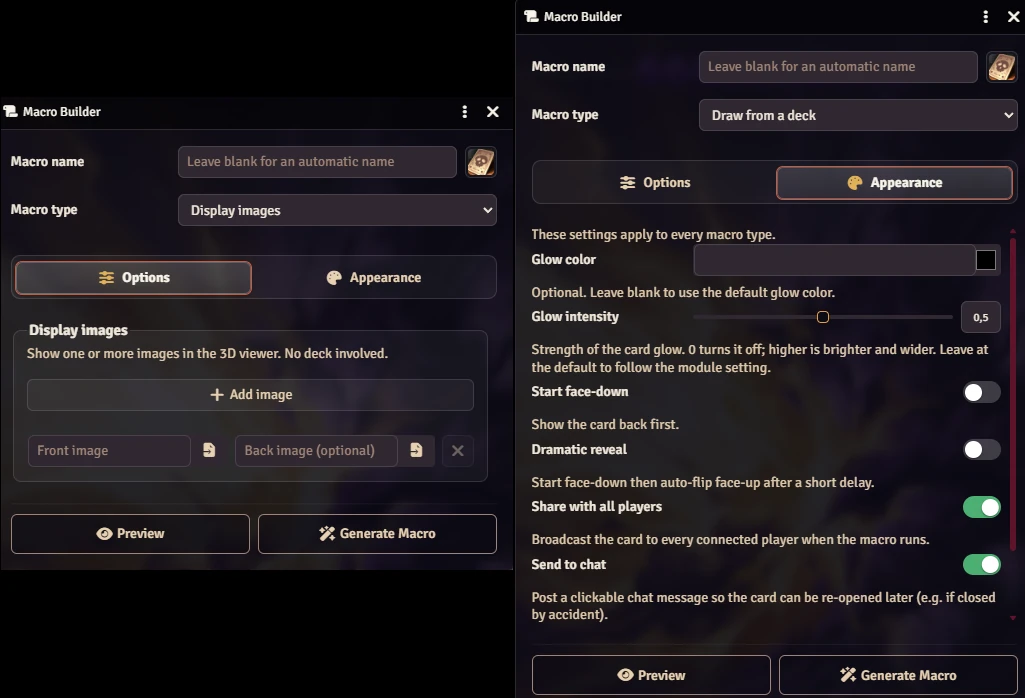
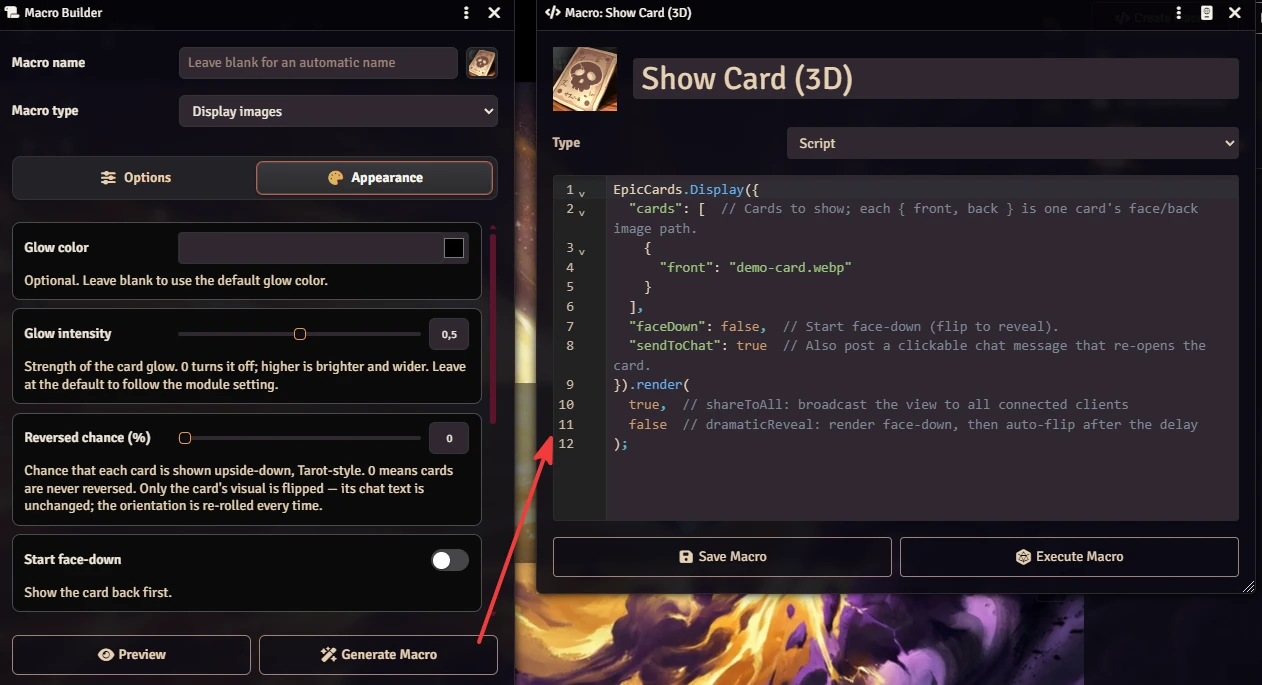
0.0.6

diff --git a/styles/base.css b/styles/base.css
@@ -17,17 +17,25 @@
  * only the module's own windows — never core sheets, and never the chat previews
  * above (those use the distinct `epic-3d-card-reveal-msg` token, which `[class~=]`
  * treats as a separate word). Design tokens live here once; the per-app stylesheets
- * (macro-builder.css, card-appearance-settings.css) consume them for a consistent look.
+ * (macro-builder.css, card-appearance-settings.css, reveal-sound-settings.css) consume them
+ * for a consistent look.
+ *
+ * The surface/border/fill tokens are fully opaque (solid shades, not translucent white-over-dark
+ * rgba), so none of the module's forms let the window content show through their panels, cards or
+ * fields, and the three config windows (Macro Builder, Card Appearance, Reveal Sound) read alike.
+ * card-viewer.css / chat-card.css don't consume these tokens, so they're unaffected.
  */
 [class~="epic-3d-card-reveal"].application {
-    --epic-3d-card-reveal-surface: rgba(255, 255, 255, 0.045);
-    --epic-3d-card-reveal-surface-raised: rgba(255, 255, 255, 0.09);
-    --epic-3d-card-reveal-border: rgba(255, 255, 255, 0.12);
-    --epic-3d-card-reveal-border-strong: rgba(255, 255, 255, 0.22);
+    --epic-3d-card-reveal-surface: #222226;
+    --epic-3d-card-reveal-surface-raised: #2d2d30;
+    --epic-3d-card-reveal-border: #343437;
+    --epic-3d-card-reveal-border-strong: #4b4b4e;
     --epic-3d-card-reveal-accent: #e0b25a;
-    --epic-3d-card-reveal-accent-soft: rgba(224, 178, 90, 0.28);
-    --epic-3d-card-reveal-toggle-off: rgba(255, 255, 255, 0.2);
+    --epic-3d-card-reveal-accent-soft: #50432d;
+    --epic-3d-card-reveal-toggle-off: #464649;
     --epic-3d-card-reveal-toggle-on: #4caf72;
+    /* Near-black fill for the boxed setting cards, deliberately darker than the window frame. */
+    --epic-3d-card-reveal-field-bg: #0a0a0b;
 
     /* Legibility is the priority: lift labels, legends and hints off the dark frame. */
     label {
@@ -141,4 +149,49 @@
     .form-footer button:active {
         transform: translateY(1px);
     }
+}
+
+/*
+ * Boxed setting cards — the shared visual language across all three config windows. Each setting
+ * (its label + fields + explanatory hint) is wrapped in its own near-black card with a strong
+ * border, so every control reads as one unit instead of the list blurring into a single wall of
+ * text, and so the windows look identical.
+ *
+ * This must be a top-level rule (not nested in the `.application` block above) because it keys off
+ * each window's own root class to box exactly the right groups:
+ *   - Macro Builder: only the Appearance panel's groups — the header (name/type) and the Options
+ *     panel keep their tighter layout, so we target `[data-tab-panel="appearance"]`.
+ *   - Card Appearance / Reveal Sound: every group in the form, all under `.standard-form`.
+ * A single descendant `.form-group` selector also catches the groups nested inside the Macro
+ * Builder's collapsible data-sound-custom / data-reveal-extra / data-deck-only wrappers.
+ */
+[class~="epic-3d-card-reveal"].card-macro-builder [data-tab-panel="appearance"] .form-group,
+[class~="epic-3d-card-reveal"].card-appearance-settings .standard-form .form-group,
+[class~="epic-3d-card-reveal"].reveal-sound-settings .standard-form .form-group {
+    margin: 0 0 0.55rem;
+    padding: 0.55rem 0.7rem 0.6rem;
+    background: var(--epic-3d-card-reveal-field-bg);
+    border: 1px solid var(--epic-3d-card-reveal-border-strong);
+    border-radius: 8px;
+}
+
+/* The hint now lives inside its setting's box: drop its trailing gap and lift it to full contrast
+   so the explanatory text reads clearly against the dark fill. */
+[class~="epic-3d-card-reveal"].card-macro-builder [data-tab-panel="appearance"] .form-group .hint,
+[class~="epic-3d-card-reveal"].card-appearance-settings .standard-form .form-group .hint,
+[class~="epic-3d-card-reveal"].reveal-sound-settings .standard-form .form-group .hint {
+    margin-block-end: 0;
+    opacity: 1;
+}
+
+/*
+ * Match the Macro Builder's tighter card spacing. There the boxed groups sit inside the scrolling
+ * `.cmb-panel`, so the only gap between them is the card's own 0.55rem margin. In these two forms
+ * the groups are direct children of `.standard-form`, which adds core's flex `gap` on top — making
+ * the spacing read as too large. Drop that gap so the card margin alone drives the rhythm. (Their
+ * footer lives outside `.standard-form`, so this only affects the spacing between cards.)
+ */
+[class~="epic-3d-card-reveal"].card-appearance-settings .standard-form,
+[class~="epic-3d-card-reveal"].reveal-sound-settings .standard-form {
+    gap: 0;
 }

diff --git a/styles/macro-builder.css b/styles/macro-builder.css
@@ -6,23 +6,6 @@
  * instead of an escaped class selector — same specificity, no escapes.
  */
 [class~="epic-3d-card-reveal"].card-macro-builder {
-    /*
-     * Fully opaque Macro Builder: base.css defines the shared surface/border/fill tokens as
-     * translucent white-over-dark rgba() values, which let the window content show through every
-     * panel, card and field. Here we redeclare each one as the same shade flattened to a solid
-     * color (its appearance over the dark window frame), so nothing in this window is see-through.
-     * This selector matches the same root element as base.css's [class~=...].application rule with
-     * equal specificity, and macro-builder.css loads later, so these win — and only for the Macro
-     * Builder. The Card Appearance app keeps the translucent tokens. accent/toggle-on are already
-     * opaque, so they're left to inherit from base.css.
-     */
-    --epic-3d-card-reveal-surface: #222226;
-    --epic-3d-card-reveal-surface-raised: #2d2d30;
-    --epic-3d-card-reveal-border: #343437;
-    --epic-3d-card-reveal-border-strong: #4b4b4e;
-    --epic-3d-card-reveal-accent-soft: #50432d;
-    --epic-3d-card-reveal-toggle-off: #464649;
-
     /* Square thumbnail button beside the macro name; clicking it opens the icon FilePicker. */
     .cmb-icon-pick {
         flex: 0 0 auto;
@@ -125,32 +108,15 @@
     }
 
     /*
-     * Appearance panel: box each setting into its own card so the explanatory hint underneath
-     * stays visually tied to its control, instead of the whole list reading as one undivided
-     * wall of text where it's unclear which note belongs to which option. A raised fill plus a
-     * strong border maximise the separation; scoped to the appearance panel so the Options panel
-     * keeps its tighter fieldset layout. The toggle/select/slider settings here are each their own
-     * .form-group (the formGroup helper and the hand-built blocks both bundle label + fields + hint
-     * into one), so a single descendant rule covers them all — including those nested inside the
-     * collapsible data-sound-custom / data-reveal-extra / data-deck-only wrappers.
+     * The boxed setting cards for the Appearance panel are defined once in base.css, shared with
+     * the Card Appearance and Reveal Sound forms for a consistent look.
      */
-    [data-tab-panel="appearance"] .form-group {
-        margin: 0 0 0.55rem;
-        padding: 0.55rem 0.7rem 0.6rem;
-        background: var(--epic-3d-card-reveal-surface-raised);
-        border: 1px solid var(--epic-3d-card-reveal-border-strong);
-        border-radius: 8px;
-    }
 
-    /* The hint now lives inside its setting's box; drop the trailing gap and lift it to full
-       contrast so the explanatory text reads clearly against the raised fill. */
-    [data-tab-panel="appearance"] .form-group .hint {
-        margin-block-end: 0;
-        opacity: 1;
-    }
-
+    /* Give the Options panel's three macro-type fieldsets the same near-black fill as the
+       Appearance cards, so both tabs share one look. */
     fieldset {
         margin-block-start: 0;
+        background: var(--epic-3d-card-reveal-field-bg);
     }
 
     /* Make the hand-built selects line up with the formGroup inputs. */

diff --git a/docs/README-ptbr.md b/docs/README-ptbr.md
@@ -1,0 +1,117 @@
+# 🃏 Epic 3D Card Reveal
+
+**Um módulo para Foundry VTT que transforma cada carta sacada em um momento especial**
+
+> 🌐 [Read this in English](../README.md)
+
+Sacar uma carta do Baralho das Muitas Coisas deveria ser um *evento que para a mesa* — e não uma miniatura minúscula na barra lateral. O **Epic 3D Card Reveal** transforma cada carta em um espetáculo deslumbrante em tela cheia: a carta flutua diante de uma tela escurecida, inclina-se em 3D conforme você move o mouse, reflete a luz com um brilho sutil e vira com uma animação satisfatória — acompanhada de um toque triunfante — quando você clica nela.
+
+![Prévia](preview.webp)
+
+![Prévia 3 Cartas](preview-3cards.webp)
+
+[![Buy Me a Coffee](https://img.shields.io/badge/Buy%20Me%20a%20Coffee-Donate-red?style=for-the-badge&logo=buy-me-a-coffee)](https://buymeacoffee.com/mestredigital)
+
+## ✨ O que ele faz
+
+- 🖥 **Visualizador 3D em tela cheia** — as cartas pairam sobre um fundo escurecido com brilhos, uma aura reluzente e um reflexo de luz que segue o seu cursor.
+- 🔄 **Clique para virar** — veja a arte da carta de um lado e o texto da carta do outro.
+- 🔊 **Toque triunfante de revelação** — um som de vitória soa no momento em que a face de uma carta é revelada, fazendo cada saque parecer conquistado. (Totalmente configurável — escolha o seu próprio som ou silencie-o.)
+- 🖐 **Mãos em leque** — saque várias cartas de uma vez e elas se espalham em um gracioso arco 3D, como se você segurasse uma mão de verdade.
+- 🔍 **Destaque uma carta** — clique com o botão direito em qualquer carta de uma mão para ampliá-la sozinha; clique novamente com o botão direito para trazer a mão inteira de volta.
+- 👁 **Compartilhe com um clique** — gostou do que sacou? Aperte o botão de olho e *todos na mesa* veem a sua carta instantaneamente. Os jogadores também podem compartilhar, não apenas o GM.
+- 🎭 **Revelação dramática** — as cartas podem aparecer viradas para baixo e se virar sozinhas após uma pausa de suspense.
+- 🔮 **Cartas invertidas (estilo Tarô)** — dê a uma macro uma chance de inversão e cada carta terá essa porcentagem de chance de cair de cabeça para baixo, como em uma tiragem de Tarô de verdade. O texto da carta nunca muda — o significado é lido pela orientação. Desativado por padrão; ative-o por macro (ou com o controle deslizante *Chance de inversão* do Construtor de Macros).
+- 💬 **Nunca perca uma carta** — toda carta que você visualiza é discretamente sussurrada ao GM no chat. As cartas compartilhadas são publicadas publicamente, então qualquer um pode clicar na miniatura do chat para admirá-las novamente depois.
+- 🖱 **Clique em qualquer miniatura de carta** — na barra lateral, na janela de um baralho ou no chat — e ela abre no visualizador.
+
+## 🚀 Como usar
+
+1. 📦 Instale o módulo e ative-o no seu mundo.
+2. 🗂 Abra qualquer baralho de cartas e **clique na imagem de uma carta** — ela abre no visualizador 3D.
+3. 🃏 **Clique na carta** para virá-la. **Clique em qualquer outro lugar** para dispensá-la.
+4. 🔍 Sacou mais de uma carta? **Clique com o botão direito** em uma carta para destacá-la sozinha e clique novamente com o botão direito para espalhar a mão de volta em leque.
+5. 👁 Clique no **botão de olho** no canto superior para mostrar a carta a todos. (O botão só aparece quando a carta ainda não está sendo mostrada a todos.)
+
+É isso. Não precisa de configuração — fica ótimo já de cara.
+
+## ⚙ Configurações
+
+![Configurações](settings.webp)
+
+| Configuração | Padrão | O que faz |
+|---|---|---|
+| 🖱 Ativar ícones de carta clicáveis | Ligado | Faz com que as miniaturas de cartas na barra lateral, nas janelas de baralho e no chat abram o visualizador 3D. |
+| 💬 Enviar cartas reveladas ao chat | Ligado | Publica uma prévia clicável da carta no chat — sussurrada ao GM quando uma carta é vista em particular, pública quando é compartilhada. |
+| 📜 Enviar descrição da carta ao chat | Desligado | Adiciona a descrição da carta à prévia no chat — perfeito para baralhos de lore como o Harrow Deck do PF2e. Lê o próprio campo de descrição da carta e renderiza seu texto rico e links. Cartas sem descrição (e imagens simples exibidas pela API) não são afetadas. |
+
+Os três menus abaixo são exclusivos do GM e permitem definir os padrões para todo o seu mundo:
+
+### 🎨 Menu de Aparência da Carta
+
+Clique em **Configurar Aparência da Carta** nas configurações do módulo para abrir uma janela dedicada onde você pode estilizar suas cartas:
+
+- 🌟 **Cor e opacidade do brilho da carta** — o brilho é a moldura da carta: escolha sua cor com um seletor de cores e ajuste sua transparência com um controle deslizante (deslize até `0` para desligar o brilho e deixar a carta sem bordas).
+- 🂠 **Imagem do verso da carta** — o verso padrão mostrado quando uma carta não tem um próprio.
+- ⏱ **Atraso da revelação dramática** — por quanto tempo uma carta permanece virada para baixo antes de virar automaticamente durante uma revelação dramática.
+
+### 🔊 Menu de Som de Revelação
+
+Clique em **Configurar Som de Revelação** para escolher o som que toca quando uma carta é revelada:
+
+- 🎵 **Som de revelação** — escolha qualquer arquivo de áudio ou deixe em branco para não tocar som algum.
+- 🔉 **Volume** e **canal de áudio** — defina o volume e qual canal do mixer ele usa.
+- ♻ Um botão **Restaurar Padrões** restaura o toque original a qualquer momento.
+
+### 📜 Construtor de Macros
+
+![Construtor de Macros](macro-builder.webp)
+
+Não é programador? Clique em **Abrir Construtor de Macros** para preencher um formulário simples e obter uma macro pronta para uso que exibe qualquer imagem — ou saca de um dos seus baralhos — como uma carta 3D completa. Sem necessidade de programação.
+
+## 💬 Como o chat funciona
+
+- 👁🗨 **Visualizar uma carta em particular** → uma prévia é sussurrada ao GM, então o GM sempre sabe o que foi sacado e pode reabri-la a qualquer momento.
+- 📢 **Compartilhar uma carta com todos** → a prévia é publicada publicamente no chat, então qualquer jogador pode clicar nela depois para visualizar a carta novamente na própria tela.
+- 🙈 **Virada para baixo continua secreta** → uma carta mostrada virada para baixo não é publicada no chat até que você a vire para cima (ou ela vire automaticamente durante uma revelação dramática), então a frente nunca aparece no chat antes da revelação.
+- 📜 **Lore da carta no chat (opcional)** → ative **Enviar descrição da carta ao chat** e a prévia também carrega a descrição da carta — seu texto rico e links renderizados no lugar. Ótimo para baralhos como o Harrow do PF2e, onde cada carta conta uma história.
+
+## 🧙 Para autores de macros e módulos
+
+Quer mostrar qualquer imagem como uma linda carta 3D a partir de uma macro, ou construir sobre o visualizador? O visualizador é programável através do objeto global `EpicCards`.
+
+- 🖼 **`EpicCards.Display(...)`** — o recurso principal: renderiza *qualquer* imagem com a apresentação 3D animada.
+- 🃏 **`EpicCards.Dealer(...)`** — um auxiliar opcional para quando você está trabalhando com baralhos de cartas reais. Ele conecta a lógica de cartas do Foundry (sacar para uma pilha de descarte, encontrar uma carta entre as pilhas) ao visualizador, então sua macro ou módulo pode mover cartas **e** mostrar a carta animada em um único passo — sem precisar reimplementar a estrutura de baralhos/pilhas você mesmo.
+
+Prefere não escrever código? Abra o **Construtor de Macros** (configurações do módulo → **Abrir Construtor de Macros**, ou chame `EpicCards.MacroBuilder()`) para gerar uma macro pronta a partir de um formulário.
+
+Veja **[docs/API.md](API.md)** para a referência completa e exemplos de macros prontos para colar.
+
+---
+
+# Instalação
+
+1. Abra o Foundry VTT e vá até **Add-on Modules**.
+2. Clique em **Install Module**.
+3. Cole a URL do manifesto abaixo e clique em **Install**.
+
+```
+https://raw.githubusercontent.com/brunocalado/epic-3d-card-reveal/main/module.json
+```
+
+4. Ative o módulo no seu mundo através de **Manage Modules**.
+
+---
+
+# Relatos de Bugs & Pedidos de Recursos
+
+https://github.com/brunocalado/epic-3d-card-reveal/issues
+
+---
+
+# Créditos e Licença
+
+- Lançado sob a [LICENSE](../LICENSE).
+- Este módulo é um fork/reescrita do [orcnog-card-viewer](https://github.com/orcnog/orcnog-card-viewer), que se inspirou visualmente em um popular conjunto de ferramentas de 5e.
+- [reveal.ogg](https://pixabay.com/sound-effects/musical-victory-chime-366449/)
+- [demo-card.webp e demo-card-back.webp](https://pixabay.com/illustrations/lion-wild-animal-abstract-1015153/)

diff --git a/README.md b/README.md
@@ -2,9 +2,13 @@
 
 **A Foundry VTT module that makes every card draw feel like a moment**
 
+> 🌐 [Leia em Português do Brasil](docs/README-ptbr.md)
+
 Drawing a card from the Deck of Many Things should be a *table-stopping event* — not a tiny thumbnail in a sidebar. **Epic 3D Card Reveal** turns every card into a gorgeous full-screen showpiece: the card floats in front of a dimmed screen, tilts in 3D as you move your mouse, catches the light with a subtle glint, and flips over with a satisfying animation — complete with a triumphant chime — when you click it.
 
 ![Preview](docs/preview.webp)
+
+![Preview 3 Cards](docs/preview-3cards.webp.webp)
 
 [![Buy Me a Coffee](https://img.shields.io/badge/Buy%20Me%20a%20Coffee-Donate-red?style=for-the-badge&logo=buy-me-a-coffee)](https://buymeacoffee.com/mestredigital)
 
@@ -110,3 +114,4 @@ https://github.com/brunocalado/epic-3d-card-reveal/issues
 - Released under the [LICENSE](LICENSE).
 - This module is a fork/rewrite of [orcnog-card-viewer](https://github.com/orcnog/orcnog-card-viewer), which took its visual inspiration from a popular 5e toolset.
 - [reveal.ogg](https://pixabay.com/sound-effects/musical-victory-chime-366449/)
+- [demo-card.webp and demo-card-back.webp](https://pixabay.com/illustrations/lion-wild-animal-abstract-1015153/)

diff --git a/CHANGELOG.md b/CHANGELOG.md
@@ -1,3 +1,7 @@
+# 0.0.6
+
+- Unified the look of the three config windows — **Macro Builder**, **Card Appearance** and **Reveal Sound** now share the same boxed-card styling for consistency. The boxed setting cards (and the Macro Builder *Options* tab's macro-type sections) use a near-black (`#0a0a0b`) fill, darker than the window frame, so each control and its hint stand out clearly. All three windows are also fully opaque now.
+
 # 0.0.5
 
 - Macros generated by the **Macro Builder** are now self-documenting: every baked-in argument carries an inline `// ...` comment explaining what it does (e.g. `quantity`, `face`, `share`, `glowColor`, `reversalChance`), and the positional `render(...)` / `view(...)` arguments are commented too. Only the options you actually set are written, so each macro only explains what it uses.
